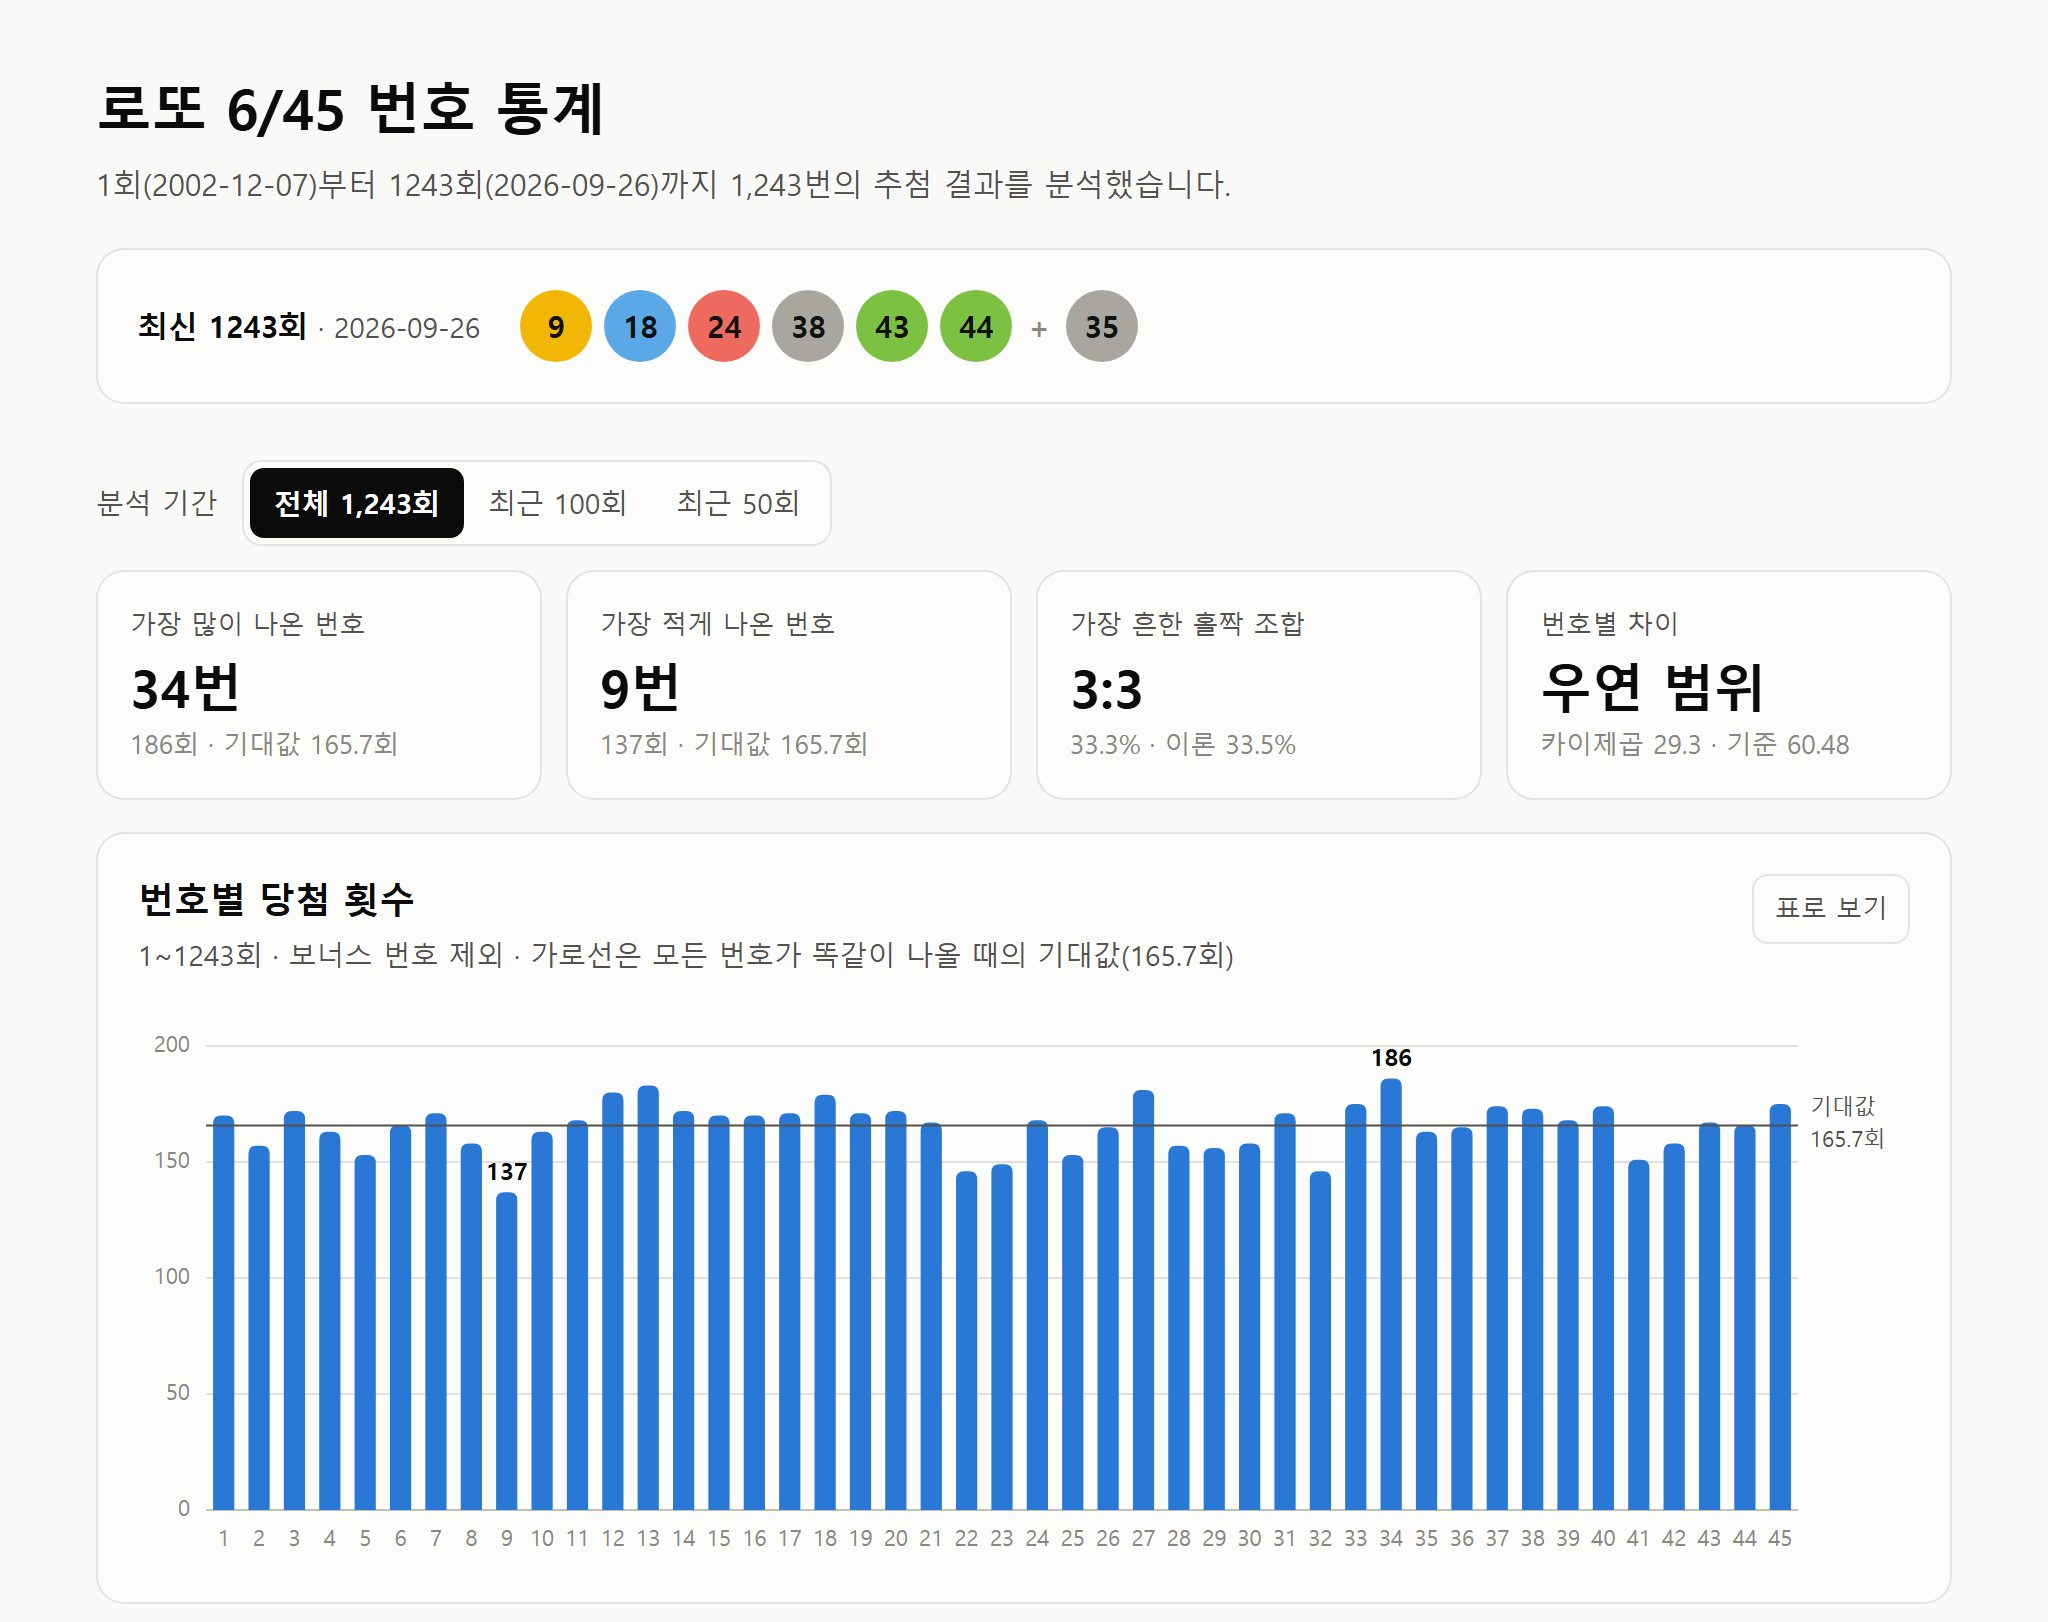
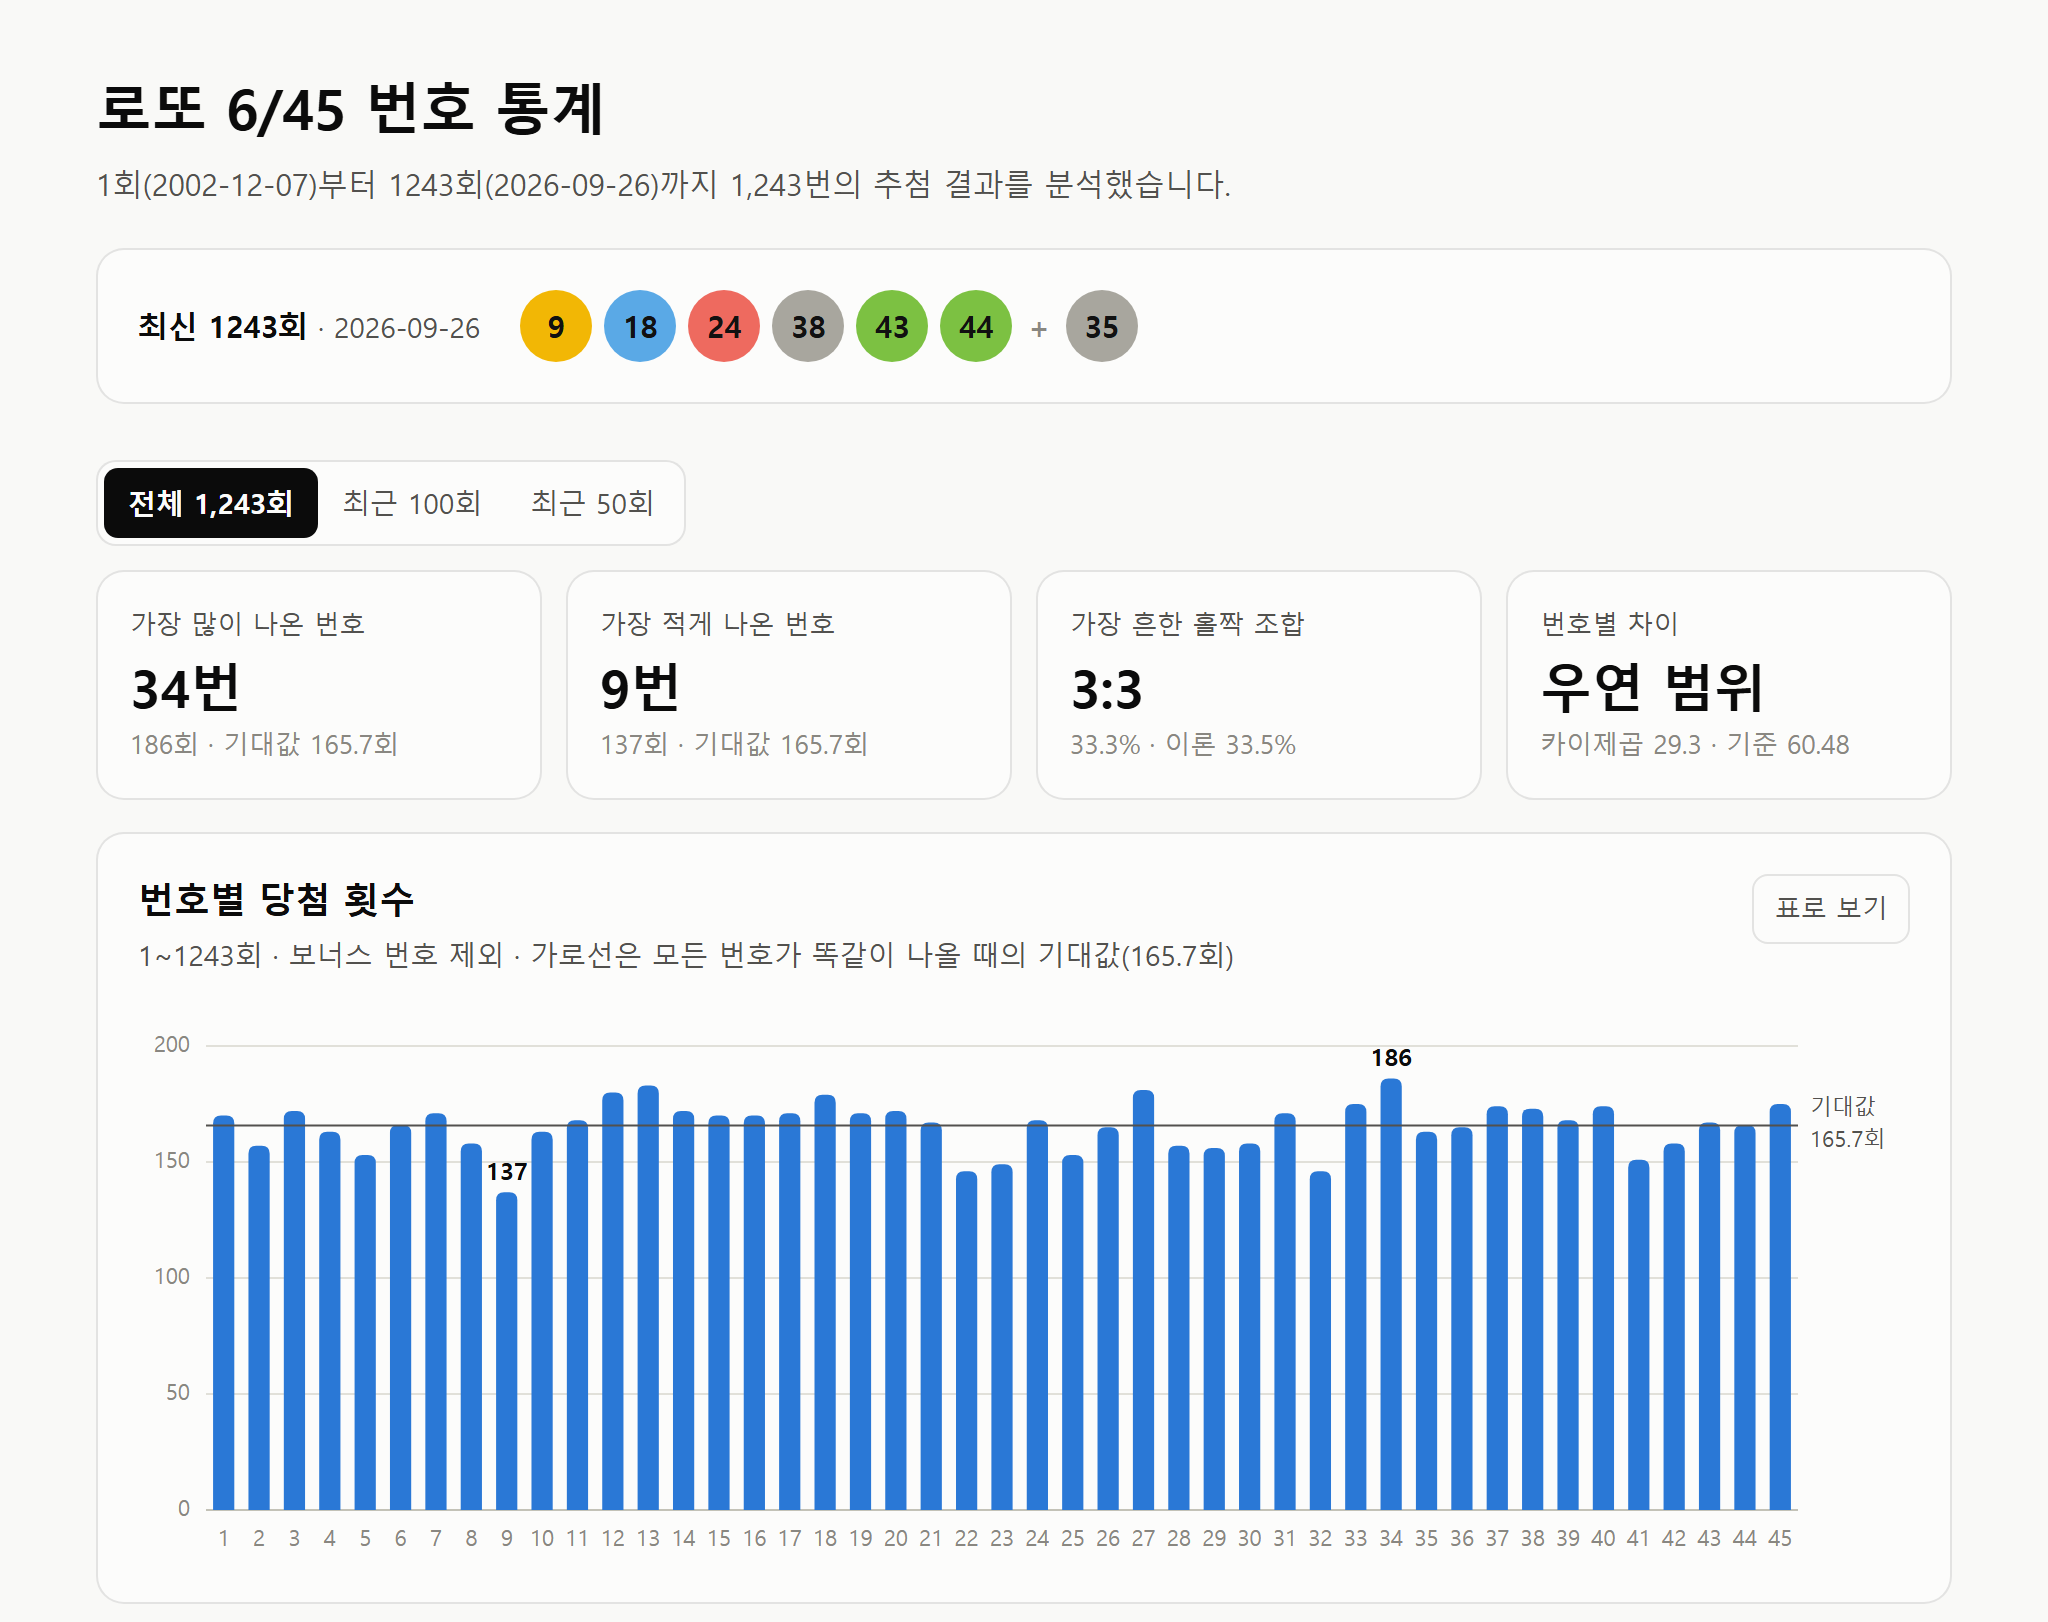
웹페이지에서 '분석 기간' 라벨 제거
기간 버튼(전체·최근 100회·최근 50회)만 남기고, 화면 낭독기용 라벨은 aria-label로 유지.
README 스크린샷도 바뀐 화면으로 갱신.

Changed region(s): [[0.0312, 0.2774, 0.3438, 0.3391]]

diff --git a/docs/index.html b/docs/index.html
@@ -92,7 +92,6 @@
 
   /* 기간 필터 */
   .filter { display: flex; flex-wrap: wrap; align-items: center; gap: 8px 12px; margin: 28px 0 12px; }
-  .filter-label { font-size: 14px; color: var(--ink-2); }
   .seg { display: inline-flex; background: var(--surface); border: 1px solid var(--border); border-radius: 10px; padding: 3px; }
   .seg button {
     border: 0; background: transparent; color: var(--ink-2);
@@ -205,8 +204,7 @@
   </header>
 
   <div class="filter">
-    <span class="filter-label" id="win-label">분석 기간</span>
-    <div class="seg" id="win-seg" role="group" aria-labelledby="win-label"></div>
+    <div class="seg" id="win-seg" role="group" aria-label="분석 기간"></div>
   </div>
 
   <section class="tiles" id="tiles" aria-label="요약"></section>

diff --git a/site_template.html b/site_template.html
@@ -92,7 +92,6 @@
 
   /* 기간 필터 */
   .filter { display: flex; flex-wrap: wrap; align-items: center; gap: 8px 12px; margin: 28px 0 12px; }
-  .filter-label { font-size: 14px; color: var(--ink-2); }
   .seg { display: inline-flex; background: var(--surface); border: 1px solid var(--border); border-radius: 10px; padding: 3px; }
   .seg button {
     border: 0; background: transparent; color: var(--ink-2);
@@ -205,8 +204,7 @@
   </header>
 
   <div class="filter">
-    <span class="filter-label" id="win-label">분석 기간</span>
-    <div class="seg" id="win-seg" role="group" aria-labelledby="win-label"></div>
+    <div class="seg" id="win-seg" role="group" aria-label="분석 기간"></div>
   </div>
 
   <section class="tiles" id="tiles" aria-label="요약"></section>
